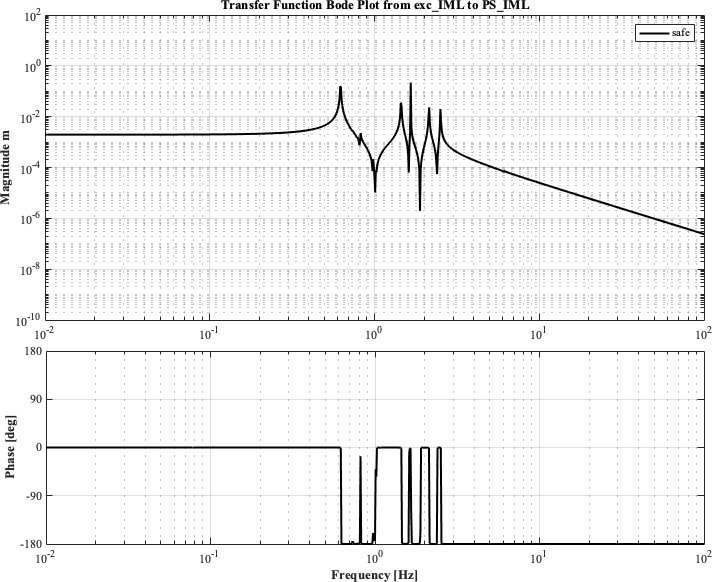
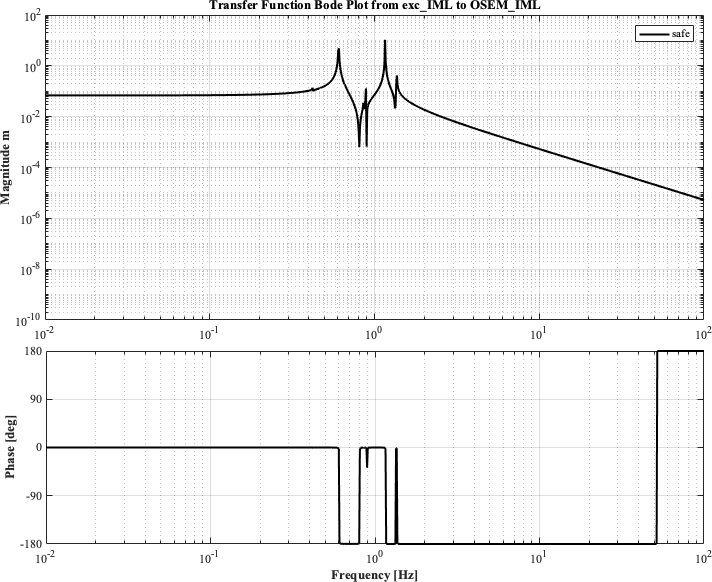
models: Add python class

diff --git a/example_compare_tf.py b/example_compare_tf.py
@@ -1,0 +1,68 @@
+import numpy as np
+import matplotlib.pyplot as plt
+
+from measurements.susdtt import SusDtt
+from models.susmodel import SusModel
+
+def bode_model(optic,stage,dof):    
+    model = SusModel(optic)   
+    start = 'ctrl_typeBp/exc_{0}{1}'.format(stage,dof)
+    end = 'ctrl_typeBp/OSEM_{0}{1}'.format(stage,dof)
+    freq = np.logspace(-2,1,1001)    
+    freq,gain = model.tf(start,end,freq)
+    #gain *= 0.2
+    return freq, gain
+
+def bode_measurement(optic,stage,dof):
+    prefix = './measurements/typeBp/klog8634/'
+    fname = prefix + '{0}_{1}{2}_exc_190411man.xml'.format(optic,stage,dof)
+    meas = SusDtt(fname)
+    _from = 'K1:VIS-{0}_{1}_TEST_{2}_EXC'.format(optic,stage,dof)
+    _to = 'K1:VIS-{0}_{1}_DAMP_{2}_IN1_DQ'.format(optic,stage,dof)
+    _freq, _gain, _coh = meas.tf(_from,_to)
+    return _freq, _gain, _coh
+
+
+if __name__=='__main__':    
+    fig,ax = plt.subplots(3,3,sharex='col',sharey='row',figsize=(10,6))
+    plt.subplots_adjust(hspace=0.1, wspace=0.15,
+                        left=0.1, right=0.95,
+                        top=0.88, bottom=0.1)
+    optics = ['PR3']
+    stages = ['IM']    
+    dofs = ['L','T','V']
+    optic = optics[0]
+    stage = stages[0]
+    title = 'Compliance of PR3_IM_{L,T,V}'
+    plt.suptitle(title,fontsize=18)
+    for i,dof in enumerate(dofs[:3]):
+        freq, gain = bode_model(optic,stage,dof)
+        _freq, _gain, _coh = bode_measurement(optic,stage,dof)
+        gain *= np.mean((np.abs(_gain)[:5]/np.abs(gain)[:5])) #[1]
+        ax[0][i].loglog(freq,np.abs(gain),'k-',label='Model')
+        ax[0][i].loglog(_freq,np.abs(_gain),'ro',markersize=2,label='Measurement')
+        ax[1][i].semilogx(freq,np.rad2deg(np.angle(gain)),'k-')
+        ax[1][i].semilogx(_freq,np.rad2deg(np.angle(_gain)),'ro',markersize=2,label='Measured')
+        ax[0][i].set_title('{0} -> {1}'.format(dof,dof))
+        ax[2][i].semilogx(_freq,_coh,'ro',markersize=2)
+        ax[1][i].set_xlim(1e-2,1e1)    
+        ax[1][i].set_yticks(range(-180,181,90))
+        ax[2][i].set_xlabel('Frequency [Hz]')
+        ax[1][i].grid(which='major',color='black',linestyle='-')
+        ax[1][i].grid(which='minor',color='black',linestyle=':')
+        ax[0][i].grid(which='major',color='black',linestyle='-')
+        ax[0][i].grid(which='minor',color='black',linestyle=':')
+        ax[2][i].grid(which='major',color='black',linestyle='-')
+        ax[2][i].grid(which='minor',color='black',linestyle=':')
+        ax[0][i].legend(loc='upper left')
+    ax[0][0].set_ylabel('Magnitude')
+    ax[1][0].set_ylabel('Phase [Degree]')
+    ax[2][0].set_ylabel('Coherence')
+    ax[0][0].set_ylim(1e-4,1e2)
+    ax[1][0].set_ylim(-181,181)
+    ax[2][0].set_ylim(0,1)
+    #plt.tight_layout()
+    plt.savefig('TF.png')
+    plt.close()
+    
+    # [1] Adjust the model data to the measured one. Note that the data points in lower frequency are unreliable.

diff --git a/models/susmodel.py b/models/susmodel.py
@@ -1,0 +1,80 @@
+import scipy.io
+import scipy
+from control import matlab,tf
+import control
+from control import StateSpace
+import numpy as np
+from scipy import signal
+import matplotlib.pyplot as plt
+
+# Read linearized model as ABCD matrix
+
+# ------------------------------------------------------------------------------
+
+class SusModel():
+    def __init__(self,optic,state='safe'):
+        prefix = './models/abcd/'
+        fname = prefix+'{0}_{1}.mat'.format(optic,state)
+        mat_dict = scipy.io.loadmat(fname)
+        st = mat_dict['linss']
+        A,B,C,D,statename,outputname,inputname,operpoint,ts = st[0][0]
+        self.ss_mimo = control.matlab.ss(A, B, C, D)
+        self.inputname = np.asarray([i[0][0] for i in inputname])
+        self.outputname = np.asarray([i[0][0] for i in outputname])
+
+    def ss(self,start,end):
+        '''
+        '''
+        idx_from = np.where(self.inputname==start)[0][0]
+        idx_to = np.where(self.outputname==end)[0][0]
+        print('From :',idx_from,self.inputname[idx_from])
+        print('To   :',idx_to,self.outputname[idx_to])
+        out = self.ss_mimo.returnScipySignalLTI()
+        ss = out[idx_to][idx_from]
+        self.ss_siso = control.ss(ss.A,ss.B,ss.C,ss.D)
+
+    def tf(self,_input,_output,freq):
+        ''' 
+
+        ----
+        Parameters:
+        
+        
+        ----
+        Returns
+        '''
+        self.ss(_input,_output)
+        mag, phase, omega = matlab.bode(self.ss_siso,freq*2.0*np.pi,Plot=False)
+        gain = mag*(np.exp(1j*phase))
+        return freq,gain
+
+    def bode(self,_input,_output,freq):
+        #wrap = lambda phases : ( phases + np.pi) % (2 * np.pi ) - np.pi    
+        #phase = np.rad2deg(wrap(phase))        
+        pass
+    
+   
+if __name__ == '__main__':    
+
+    pr3 = SusModel('PR3')
+    start = 'ctrl_typeBp/exc_IML'
+    end = 'ctrl_typeBp/OSEM_IML'
+    freq = np.logspace(-2,1,1001)    
+    freq,IML2IML = pr3.tf(start,end,freq)
+    
+    fig,(ax0,ax1) = plt.subplots(2,1)
+    ax0.loglog(freq,np.abs(IML2IML))
+    ax1.semilogx(freq,np.rad2deg(np.angle(IML2IML)))    
+    ax0.set_xlim(1e-2,1e1)
+    ax0.set_ylabel('Magnitude')
+    ax1.set_xlim(1e-2,1e1)
+    ax1.set_ylim(-181,181)
+    ax1.set_yticks(range(-180,181,90))
+    ax1.set_xlabel('Frequency [Hz]')
+    ax1.set_ylabel('Phase [Degree]')
+    ax1.grid(which='major',color='black',linestyle='-')
+    ax1.grid(which='minor',color='black',linestyle=':')
+    ax0.grid(which='major',color='black',linestyle='-')
+    ax0.grid(which='minor',color='black',linestyle=':')
+    plt.savefig('TF.png')
+    plt.close()

diff --git a/models/example.m b/models/example.m
@@ -6,9 +6,9 @@
 clear all;  % Clear workspace
 close all;  % Close plot windows
 addpath('../utils');
-optic = 'ETMX';
+%optic = 'ETMX';
 %optic = 'BS';
-%optic = 'PR3';
+optic = 'PR3';
 
 %% 1. Import susmodel from SUMCON
 addpath('./sumcon/matlab');
@@ -35,15 +35,13 @@ linss = linmod(mdlfile);
 invl = strrep(linss.InputName, [mdlfile,'/'],'');
 outvl = strrep(linss.OutputName,[mdlfile,'/'],'');
 sys_safe = ss(linss.a,linss.b,linss.c,linss.d,'inputname',invl,'outputname',outvl);
-save(strcat('./abcd/',optic,'_safe.mat'),'sys_safe')
+save(strcat('./abcd/',optic,'_safe.mat'),'linss')
 
 %% 4. Plot Transfer Functions
 freq = logspace(-2,2,1001);
 omega = freq.*(2.0*pi);
 
-stage = 'IM';
-dof = 'L';
-inv = strcat('exc_',stage,dof);
+inv = 'exc_IML'
 %inv = 'accGndL';
 
 stage = 'IM';
@@ -55,7 +53,6 @@ if contains(['IM','MN'],stage)
         sensor = 'OSEM';
     end
 end
-
 outv = strcat(sensor,'_',stage,dof);
 %outv = 'dispTML'
 
